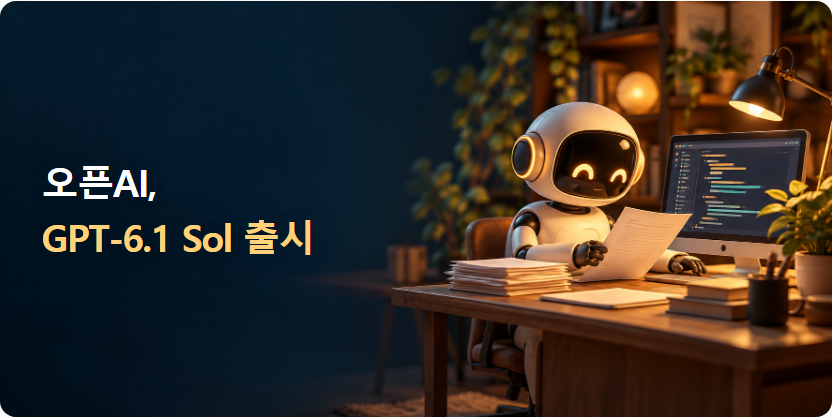
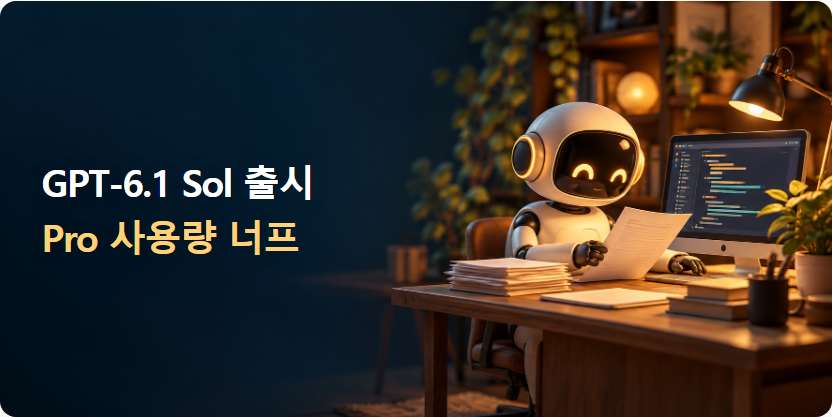
Publish Pro usage nerf article and revise Sol coverage

Changed region(s): [[0.0312, 0.53, 0.375, 0.6235], [0.0312, 0.3741, 0.375, 0.4988]]

diff --git a/posts/openai-gpt-61-sol-launch.html b/posts/openai-gpt-61-sol-launch.html
@@ -1,1 +1,1 @@
-<!doctype html><html lang="ko"><head><meta charset="utf-8"><meta name="viewport" content="width=device-width,initial-scale=1"><link rel="icon" href="data:,"><title>오픈AI, GPT-6.1 Sol 출시…문서·코딩 실력 높이고 가격은 유지</title><meta name="description" content="오픈AI가 GPT-6.1 Sol을 내놨습니다. 문서와 코딩 작업을 개선하고, 개발자가 쓰는 표준 API 요금은 기존 Sol과 같게 유지했습니다."><link rel="canonical" href="https://korea333333-web.github.io/posts/openai-gpt-61-sol-launch.html"><meta property="og:type" content="article"><meta property="og:title" content="오픈AI, GPT-6.1 Sol 출시…문서·코딩 실력 높이고 가격은 유지"><meta property="og:description" content="오픈AI가 GPT-6.1 Sol을 내놨습니다. 문서와 코딩 작업을 개선하고, 개발자가 쓰는 표준 API 요금은 기존 Sol과 같게 유지했습니다."><meta property="og:image" content="https://korea333333-web.github.io/assets/openai-gpt-61-sol-launch-cover.png"><link rel="stylesheet" href="../assets/sep26-base.css"><link rel="stylesheet" href="../assets/sep03-article.css"><link rel="stylesheet" href="../assets/sep26-articles.css"><link rel="stylesheet" href="../assets/oct01-six.css"></head><body><header class="site-header"><a class="brand" href="../index.html#ai-news"><span class="brand-mark">AI</span><span>AI 인사이트 브리프</span></a><nav class="nav" aria-label="주요 메뉴"><a href="../index.html#ai-news">AI 뉴스</a></nav></header><main class="article-shell"><article class="article article-custom sep26-article six-article"><a class="back-link" href="../index.html#ai-news">← AI 뉴스 목록</a><div class="article-meta">AI 모델 출시 · 2026.10.01 작성</div><h1>오픈AI, GPT-6.1 Sol 출시…문서·코딩 실력 높이고 가격은 유지</h1><p class="lead">오픈AI가 9월 29일 GPT-6.1 Sol을 출시했다. 문서를 읽고 프로그램을 고치는 능력을 높이면서, 개발자가 AI를 연결해 쓰는 표준 요금은 기존 GPT-6 Sol과 같게 유지했다. Work·Codex·API에서 제공한다.</p><figure class="sep26-hero article-hero-media" id="hero-openai-gpt-61-sol-launch" aria-describedby="hero-credit"><img src="../assets/openai-gpt-61-sol-launch.png" width="1774" height="887" alt="서류와 컴퓨터로 일하는 작은 로봇. 오픈AI, GPT-6.1 Sol 출시"><div class="cover-copy" aria-hidden="true"><span class="cover-title">오픈AI,<em>GPT-6.1 Sol 출시</em></span></div></figure><section><h2>비싼 AI에 맡기던 일을 더 낮은 비용으로</h2><p>이번 발표에서 눈에 띄는 것은 성능과 가격을 함께 바꿨다는 점이다. 오픈AI는 코딩 평가 일부에서 Sol이 아스트라에 가까운 결과를 냈다고 설명했다. 아스트라는 오픈AI의 고성능 모델이고, Sol은 비용을 낮춰 여러 작업에 쓰도록 만든 모델이다.</p><p>표준 API의 입력·출력 단가는 아스트라의 5분의 1이다. 여기서 API는 다른 프로그램이 AI에게 일을 시키는 연결 통로다. 예를 들어 쇼핑몰이 고객 문의를 AI에 보내 답변을 받아오는 데 쓴다. 챗GPT 월 구독료와는 별도로 계산한다. <a href="https://openai.com/ko-KR/index/introducing-gpt-6-1-sol/" target="_blank" rel="noopener noreferrer">오픈AI 발표</a></p></section><figure class="sep26-visual compare" id="sol-price"><div class="visual-inner"><h3>표준 API 요금은 이렇게 읽으면 된다</h3><div class="visual-items "><div class="visual-item"><strong>AI에게 보내는 자료</strong><p>100만 토큰당 2달러</p></div><div class="visual-item"><strong>AI가 작성한 답변</strong><p>100만 토큰당 10달러</p></div><div class="visual-item"><strong>아스트라와 비교</strong><p>아스트라 단가의 5분의 1</p></div></div></div><figcaption><a href="https://openai.com/ko-KR/index/introducing-gpt-6-1-sol/" target="_blank" rel="noopener noreferrer">자료 원문</a> · 출시 당시 표준 API 입력·출력 단가. 토큰은 AI가 글을 나눠 처리하는 조각이며 글자 수와 다르다. 편집부 재구성.</figcaption></figure><section><h2>토큰은 글자 수와 다르다</h2><p>토큰은 AI가 문장을 읽고 쓸 때 나누는 작은 조각이다. 한 단어가 여러 조각으로 나뉘기도 한다. 그래서 “백만 토큰”을 “백만 글자”로 바꿔 계산하면 요금이 맞지 않는다. 한국어와 영어도 같은 분량에서 토큰 수가 달라질 수 있다.</p><p>입력 요금은 내가 보낸 질문과 자료를 처리하는 비용이다. 출력 요금은 AI가 답변을 만드는 비용이다. 예를 들어 입력과 출력이 각각 백만 토큰이라면 표준 단가로 입력 2달러와 출력 10달러를 더해 12달러다. 별도로 사용하는 도구 비용 등은 이 계산에서 뺐다.</p><p>작은 회사가 하루에 문의 수백 건을 정리한다고 생각해 보자. 한 번의 답변 가격이 작아도 매일 반복하면 비용이 쌓인다. 비슷한 수준의 일을 더 저렴한 모델이 처리하면, 어려운 문의에만 고성능 모델을 쓰는 식으로 비용을 나눌 수 있다. 이는 활용 예시이며 실제 고객사의 절감 실적은 아니다.</p><p>가격이 낮아졌다고 모든 작업의 총비용이 정확히 5분의 1로 줄지는 않는다. 모델마다 답변 길이와 다시 시도하는 횟수가 다를 수 있기 때문이다. 실제 비교에서는 같은 자료와 같은 요청을 주고, 쓴 금액과 최종 결과를 함께 봐야 한다.</p></section><section><h2>코딩 점수는 무엇을 시험한 결과인가</h2><p>오픈AI가 소개한 평가 가운데 DeepSWE가 있다. 이 시험은 AI에게 실제 프로그램의 기능을 고치거나 추가하는 일을 맡긴다. <a href="https://deepswe.datacurve.ai/" target="_blank" rel="noopener noreferrer">평가 제작자 설명</a>에 따르면 여러 프로그래밍 언어와 프로젝트에서 과제를 만들고, 고친 프로그램이 요구한 대로 작동하는지 검사한다.</p><p>예를 들어 “사용자가 파일을 내려받다가 취소하면 불필요한 작업도 멈추게 고쳐 달라”는 요청을 생각하면 이해하기 쉽다. AI가 문법에 맞는 코드 한 줄을 쓰는 능력보다, 기존 프로그램을 읽고 관련 부분을 찾아 고치는 능력이 중요하다. 이 예시는 평가의 성격을 설명하기 위한 것이다.</p><p>오픈AI는 일부 코딩 시험에서 아스트라에 가까워졌다고 설명하면서도, 전체적으로 가장 강한 모델은 아스트라라고 밝혔다. 따라서 이번 소식은 “Sol이 아스트라를 전부 이겼다”보다 “비용이 낮은 선택지의 실력이 올라갔다”로 읽는 편이 정확하다.</p><p>평가표를 볼 때는 모델 이름 옆의 설정도 중요하다. AI가 답을 내기 전에 더 오래 검토하도록 설정하면 결과와 비용이 함께 달라질 수 있다. 가장 높은 점수 하나만 가져와 가장 싼 요금과 붙이면 실제 사용 조건을 놓치게 된다.</p></section><section><h2>문서 업무에서는 같은 자료로 비교해 보면 된다</h2><p>이번 모델은 복잡한 PDF를 읽는 일도 개선 대상으로 내세웠다. PDF는 표와 그림, 여러 단의 글이 섞인 문서가 많다. 내용을 이해하려면 문장을 읽는 것뿐 아니라 어느 숫자가 어느 항목에 붙어 있는지도 구분해야 한다.</p><p>가령 여러 업체의 제안서를 비교한다면 “제일 좋은 업체를 골라줘”보다 “가격·납기·추가 비용을 표로 정리하고 근거 페이지를 붙여줘”라고 요청할 수 있다. 사람이 원문에서 숫자를 다시 찾을 수 있어 결과를 확인하기 쉽다. 여기서 든 요청은 편집부가 만든 사용 예시다.</p><p>이미 Sol을 쓰고 있다면 처음부터 모든 일을 바꿀 필요는 없다. 이전 모델이 자주 틀렸던 문서나 코드 작업 몇 개를 골라 같은 조건으로 비교하면 된다. 정답 여부, 수정한 횟수, 걸린 시간, 비용을 나란히 적으면 내 업무에서 좋아졌는지 판단할 수 있다.</p></section><figure class="sep26-visual compare" id="sol-where"><div class="visual-inner"><h3>출시 때 안내한 이용 장소</h3><div class="visual-items "><div class="visual-item"><strong>Work·Codex</strong><p>지원 요금제에서 업무와 코딩에 사용</p></div><div class="visual-item"><strong>개발자 API</strong><p>gpt-6.1-sol 모델로 연결</p></div><div class="visual-item"><strong>일반 Chat</strong><p>출시 당시 이용 불가</p></div></div></div><figcaption><a href="https://openai.com/ko-KR/index/introducing-gpt-6-1-sol/" target="_blank" rel="noopener noreferrer">자료 원문</a> · Work·Codex는 Plus·Pro·Business·Enterprise·Edu 대상으로 발표됐다. 편집부 재구성.</figcaption></figure><section><h2>어디에서 쓸 수 있나</h2><p>출시 안내는 ChatGPT Work와 Codex의 Plus·Pro·Business·Enterprise·Edu, 그리고 API를 대상으로 한다. Work는 문서 같은 결과물을 만드는 업무 기능이고, Codex는 프로그램을 만들고 고치는 도구다. 일반 Chat에서는 출시 당시 사용할 수 없다고 안내했다. <a href="https://openai.com/ko-KR/index/introducing-gpt-6-1-sol/" target="_blank" rel="noopener noreferrer">모델 발표문</a></p><p>개발자는 모델 이름을 gpt-6.1-sol로 지정해 연결한다. 기존 프로그램의 모델 이름을 바꿀 때는 결과를 받아 처리하는 부분도 시험해야 한다. 답변 형식이나 길이가 달라지면, 잘 돌아가던 후속 작업이 예상과 다르게 처리될 수 있기 때문이다.</p><p>일반 이용자는 API 단가보다 자신이 쓰는 요금제의 제공 여부와 이용량이 먼저다. 업무용 계정은 회사 관리자가 허용한 설정도 영향을 준다. 가격표의 “백만 토큰당” 숫자를 월 구독료와 섞지 않으면 발표를 훨씬 쉽게 읽을 수 있다.</p><p>GPT-6.1 Sol의 핵심은 더 비싼 모델에만 맡기던 문서·코딩 작업을 낮은 단가에서도 시도할 수 있게 했다는 것이다. 내 자료로 같은 일을 맡겼을 때 수정할 부분이 줄어드는지가 실제 가치를 가른다.</p></section><section class="sep26-sources"><h2>출처와 더 읽을 자료</h2><ul><li><a href="https://openai.com/ko-KR/index/introducing-gpt-6-1-sol/" target="_blank" rel="noopener noreferrer">오픈AI — GPT-6.1 Sol 발표와 제공 범위</a></li><li><a href="https://deepswe.datacurve.ai/" target="_blank" rel="noopener noreferrer">Datacurve — DeepSWE 평가 방식</a></li><li><a href="https://openai.com/business/pricing/" target="_blank" rel="noopener noreferrer">오픈AI — 기업용 서비스와 요금 안내</a></li><li><a href="https://openai.com/index/devday-2026-recap/" target="_blank" rel="noopener noreferrer">오픈AI — DevDay 2026 발표 모음</a></li></ul><p id="hero-credit">대표 그림은 AI로 만든 설명용 이미지다. 실제 제품 화면이나 사건 현장을 촬영한 사진이 아니다. 한국어 제목은 그림과 분리해 배치했고, 본문 도표는 자료를 바탕으로 직접 구성했다.</p></section><nav class="sep26-related" aria-label="기사 이동"><a href="openai-dots-ai-assistant.html">함께 읽기: 오픈AI, 대화가 끝나도 일하는 AI 비서 ‘도트’ 공개 →</a></nav></article></main></body></html>
+<!doctype html><html lang="ko"><head><meta charset="utf-8"><meta name="viewport" content="width=device-width,initial-scale=1"><link rel="icon" href="data:,"><title>GPT-6.1 Sol 출시…챗GPT Pro 사용량 너프, 월 500달러 요금제 추가</title><meta name="description" content="오픈AI가 Sol 6.1의 문서·코딩 성능을 높였다고 밝혔다. 하지만 월 200달러 Pro의 기본 사용량은 줄었고, 더 많이 쓰는 상위 요금제는 월 500달러다."><link rel="canonical" href="https://korea333333-web.github.io/posts/openai-gpt-61-sol-launch.html"><meta property="og:type" content="article"><meta property="og:title" content="GPT-6.1 Sol 출시…챗GPT Pro 사용량 너프, 월 500달러 요금제 추가"><meta property="og:description" content="오픈AI가 Sol 6.1의 문서·코딩 성능을 높였다고 밝혔다. 하지만 월 200달러 Pro의 기본 사용량은 줄었고, 더 많이 쓰는 상위 요금제는 월 500달러다."><meta property="og:image" content="https://korea333333-web.github.io/assets/openai-gpt-61-sol-launch-cover.png"><link rel="stylesheet" href="../assets/sep26-base.css"><link rel="stylesheet" href="../assets/sep03-article.css"><link rel="stylesheet" href="../assets/sep26-articles.css"><link rel="stylesheet" href="../assets/oct01-six.css"></head><body><header class="site-header"><a class="brand" href="../index.html#ai-news"><span class="brand-mark">AI</span><span>AI 인사이트 브리프</span></a><nav class="nav" aria-label="주요 메뉴"><a href="../index.html#ai-news">AI 뉴스</a></nav></header><main class="article-shell"><article class="article article-custom sep26-article six-article"><a class="back-link" href="../index.html#ai-news">← AI 뉴스 목록</a><div class="article-meta">AI 모델 · 요금제 변경 · 2026.10.01 작성</div><h1>GPT-6.1 Sol 출시…챗GPT Pro 사용량 너프, 월 500달러 요금제 추가</h1><p class="lead">오픈AI가 9월 29일 GPT-6.1 Sol을 출시했다. 동시에 챗GPT Pro는 월 200달러를 그대로 받으면서 기본 사용량을 줄이고, 월 500달러 상위 요금제를 추가했다. 새 모델의 성능 향상과 별개로, 같은 돈으로 쓸 수 있는 양이 줄어드는 사용량 너프다.</p><figure class="sep26-hero article-hero-media" id="hero-openai-gpt-61-sol-launch" aria-describedby="hero-credit"><img src="../assets/openai-gpt-61-sol-launch.png" width="1774" height="887" alt="서류와 컴퓨터로 일하는 작은 로봇. GPT-6.1 Sol 출시, Pro 사용량 너프"><div class="cover-copy" aria-hidden="true"><span class="cover-title">GPT-6.1 Sol 출시<em>Pro 사용량 너프</em></span></div></figure><section><h2>새 모델은 나왔지만 Pro의 기본 사용량은 줄었다</h2><p>여기서 너프는 기존에 받던 혜택을 줄인다는 뜻이다. <a href="https://help.openai.com/en/articles/9793128-about-chatgpt-pro-tiers" target="_blank" rel="noopener noreferrer">공식 안내</a>에 따르면 새 Pro 200 가입자는 이전보다 적은 기본 사용량을 받는다. 유예 조건을 충족하고 구독을 유지하는 기존 가입자는 10월 29일까지 이전 한도를 쓰고, 그 뒤에는 줄어든 한도가 적용된다.</p><p>기존 한도를 거의 다 쓰며 글을 쓰고 프로그램을 고치던 사람이라면, 앞으로는 일을 끝내기 전에 한도가 소진될 수 있다. 월 200달러를 그대로 내도 이전만큼 작업하지 못할 수 있다는 점이 핵심이다.</p><p>새 Pro 500은 세 Pro 요금제 중 기본 사용량이 가장 많고, 아스트라의 초고속 답변 모드 Ultrafast도 제공한다. 다만 기본 사용량이 얼마나 줄었는지, Pro 500에서 정확히 몇 배 더 쓸 수 있는지는 공개 안내에 없다. <a href="https://help.openai.com/en/articles/6825453-chatgpt-release-notes" target="_blank" rel="noopener noreferrer">9월 29일 변경 기록</a></p></section><figure class="sep26-visual compare" id="sol-price"><div class="visual-inner"><h3>Pro 요금제는 이렇게 달라졌다</h3><div class="visual-items "><div class="visual-item"><strong>Pro 100</strong><p>월 100달러 · Pro 200보다 적은 사용량</p></div><div class="visual-item"><strong>Pro 200</strong><p>월 200달러 · 이전보다 줄어든 사용량</p></div><div class="visual-item"><strong>Pro 500</strong><p>월 500달러 · 가장 많은 사용량과 아스트라 초고속 모드</p></div></div></div><figcaption><a href="https://help.openai.com/en/articles/9793128-about-chatgpt-pro-tiers" target="_blank" rel="noopener noreferrer">자료 원문</a> · 10월 1일 공식 안내 기준. 조건을 충족한 Pro 200 기존 가입자는 10월 29일까지 이전 한도를 유지한다. 편집부 재구성.</figcaption></figure><section><h2>개발자용 API 가격과 월 구독료는 따로 계산한다</h2><p>Sol 6.1의 표준 API 단가는 기존 Sol과 같다. 입력은 100만 토큰당 2달러, 출력은 10달러이며, 아스트라 표준 단가의 5분의 1이다. 여기서 API는 다른 프로그램이 AI에게 일을 시키는 연결 통로다. 쇼핑몰이 고객 문의를 AI에 보내 답변을 받아오는 데 쓰는 식이다. <a href="https://openai.com/ko-KR/index/introducing-gpt-6-1-sol/" target="_blank" rel="noopener noreferrer">오픈AI 발표</a></p><p>이 단가는 개발자가 프로그램에 AI를 연결해 쓸 때의 요금이다. 챗GPT Pro 월 구독료와 기본 사용량은 별도 조건으로 정한다. 개발자용 API 단가는 유지했지만, Pro 200에 포함된 기본 사용량은 줄었다.</p><p>토큰은 AI가 문장을 읽고 쓸 때 나누는 작은 조각이다. 한 단어가 여러 조각으로 나뉘기도 한다. 그래서 “백만 토큰”을 “백만 글자”로 바꿔 계산하면 요금이 맞지 않는다. 한국어와 영어도 같은 분량에서 토큰 수가 달라질 수 있다.</p><p>입력 요금은 내가 보낸 질문과 자료를 처리하는 비용이다. 출력 요금은 AI가 답변을 만드는 비용이다. 예를 들어 입력과 출력이 각각 백만 토큰이라면 표준 단가로 입력 2달러와 출력 10달러를 더해 12달러다. 별도로 사용하는 도구 비용 등은 이 계산에서 뺐다.</p><p>작은 회사가 하루에 문의 수백 건을 정리한다고 생각해 보자. 한 번의 답변 가격이 작아도 매일 반복하면 비용이 쌓인다. 비슷한 수준의 일을 더 저렴한 모델이 처리하면, 어려운 문의에만 고성능 모델을 쓰는 식으로 비용을 나눌 수 있다. 이는 활용 예시이며 실제 고객사의 절감 실적은 아니다.</p><p>작업의 총비용은 답변 길이와 다시 시도하는 횟수에 따라 달라진다. 같은 자료와 같은 요청을 주고 쓴 금액과 최종 결과를 비교해야 한다. API 단가가 5분의 1이라고 해서 Pro 구독에서 일을 다섯 배 더 할 수 있다고 계산할 수는 없다.</p></section><section><h2>코딩 점수는 무엇을 시험한 결과인가</h2><p>오픈AI가 소개한 평가 가운데 DeepSWE가 있다. 이 시험은 AI에게 실제 프로그램의 기능을 고치거나 추가하는 일을 맡긴다. <a href="https://deepswe.datacurve.ai/" target="_blank" rel="noopener noreferrer">평가 제작자 설명</a>에 따르면 여러 프로그래밍 언어와 프로젝트에서 과제를 만들고, 고친 프로그램이 요구한 대로 작동하는지 검사한다.</p><p>예를 들어 “사용자가 파일을 내려받다가 취소하면 불필요한 작업도 멈추게 고쳐 달라”는 요청을 생각하면 이해하기 쉽다. AI가 문법에 맞는 코드 한 줄을 쓰는 능력보다, 기존 프로그램을 읽고 관련 부분을 찾아 고치는 능력이 중요하다. 이 예시는 평가의 성격을 설명하기 위한 것이다.</p><p>오픈AI는 일부 코딩 시험에서 Sol이 아스트라에 가까워졌다고 설명했다. 가장 어려운 과학 연구 등의 작업에서는 아스트라가 더 강하다고 밝혔다. Sol은 비용을 낮추면서 문서·코딩 업무에 쓸 수 있는 선택지다.</p><p>평가표를 볼 때는 모델 이름 옆의 설정도 중요하다. AI가 답을 내기 전에 더 오래 검토하도록 설정하면 결과와 비용이 함께 달라질 수 있다. 가장 높은 점수 하나만 가져와 가장 싼 요금과 붙이면 실제 사용 조건을 놓치게 된다.</p></section><section><h2>문서 업무에서는 같은 자료로 비교해 보면 된다</h2><p>이번 모델은 복잡한 PDF를 읽는 일도 개선 대상으로 내세웠다. PDF는 표와 그림, 여러 단의 글이 섞인 문서가 많다. 내용을 이해하려면 문장을 읽는 것뿐 아니라 어느 숫자가 어느 항목에 붙어 있는지도 구분해야 한다.</p><p>가령 여러 업체의 제안서를 비교한다면 “제일 좋은 업체를 골라줘”보다 “가격·납기·추가 비용을 표로 정리하고 근거 페이지를 붙여줘”라고 요청할 수 있다. 사람이 원문에서 숫자를 다시 찾을 수 있어 결과를 확인하기 쉽다. 여기서 든 요청은 편집부가 만든 사용 예시다.</p><p>이미 Sol을 쓰고 있다면 처음부터 모든 일을 바꿀 필요는 없다. 이전 모델이 자주 틀렸던 문서나 코드 작업 몇 개를 골라 같은 조건으로 비교하면 된다. 정답 여부, 수정한 횟수, 걸린 시간, 비용을 나란히 적으면 내 업무에서 좋아졌는지 판단할 수 있다.</p></section><figure class="sep26-visual compare" id="sol-where"><div class="visual-inner"><h3>출시 때 안내한 이용 장소</h3><div class="visual-items "><div class="visual-item"><strong>Work·Codex</strong><p>지원 요금제에서 업무와 코딩에 사용</p></div><div class="visual-item"><strong>개발자 API</strong><p>gpt-6.1-sol 모델로 연결</p></div><div class="visual-item"><strong>일반 Chat</strong><p>출시 당시 이용 불가</p></div></div></div><figcaption><a href="https://openai.com/ko-KR/index/introducing-gpt-6-1-sol/" target="_blank" rel="noopener noreferrer">자료 원문</a> · Work·Codex는 Plus·Pro·Business·Enterprise·Edu 대상으로 발표됐다. 편집부 재구성.</figcaption></figure><section><h2>어디에서 쓸 수 있나</h2><p>출시 안내는 ChatGPT Work와 Codex의 Plus·Pro·Business·Enterprise·Edu, 그리고 API를 대상으로 한다. Work는 문서 같은 결과물을 만드는 업무 기능이고, Codex는 프로그램을 만들고 고치는 도구다. 일반 Chat에서는 출시 당시 사용할 수 없다고 안내했다. <a href="https://openai.com/ko-KR/index/introducing-gpt-6-1-sol/" target="_blank" rel="noopener noreferrer">모델 발표문</a></p><p>개발자는 모델 이름을 gpt-6.1-sol로 지정해 연결한다. 기존 프로그램의 모델 이름을 바꿀 때는 결과를 받아 처리하는 부분도 시험해야 한다. 답변 형식이나 길이가 달라지면, 잘 돌아가던 후속 작업이 예상과 다르게 처리될 수 있기 때문이다.</p><p>일반 이용자는 API 단가보다 자신이 쓰는 요금제의 제공 여부와 이용량이 먼저다. 업무용 계정은 회사 관리자가 허용한 설정도 영향을 준다. 가격표의 “백만 토큰당” 숫자를 월 구독료와 섞지 않으면 발표를 훨씬 쉽게 읽을 수 있다.</p><p>Sol 6.1의 문서·코딩 성능이 좋아졌다는 발표는 반가운 소식이다. 하지만 Pro 200의 기본 사용량 너프는 이용자에게 불리한 변경이다. 같은 돈으로 하던 일을 계속할 수 있는지, 새 한도가 충분한지도 함께 따져야 한다.</p></section><section class="sep26-sources"><h2>출처와 더 읽을 자료</h2><ul><li><a href="https://openai.com/ko-KR/index/introducing-gpt-6-1-sol/" target="_blank" rel="noopener noreferrer">오픈AI — GPT-6.1 Sol 발표와 제공 범위</a></li><li><a href="https://help.openai.com/en/articles/9793128-about-chatgpt-pro-tiers" target="_blank" rel="noopener noreferrer">오픈AI 도움말 — Pro 사용량 축소와 새 요금제</a></li><li><a href="https://help.openai.com/en/articles/6825453-chatgpt-release-notes" target="_blank" rel="noopener noreferrer">오픈AI — 9월 29일 모델·요금제 변경 기록</a></li><li><a href="https://deepswe.datacurve.ai/" target="_blank" rel="noopener noreferrer">Datacurve — DeepSWE 평가 방식</a></li><li><a href="https://openai.com/index/devday-2026-recap/" target="_blank" rel="noopener noreferrer">오픈AI — DevDay 2026 발표 모음</a></li></ul><p id="hero-credit">대표 그림은 AI로 만든 설명용 이미지다. 실제 제품 화면이나 사건 현장을 촬영한 사진이 아니다. 한국어 제목은 그림과 분리해 배치했고, 본문 도표는 자료를 바탕으로 직접 구성했다.</p></section><nav class="sep26-related" aria-label="기사 이동"><a href="openai-dots-ai-assistant.html">함께 읽기: 오픈AI, 대화가 끝나도 일하는 AI 비서 ‘도트’ 공개 →</a></nav></article></main></body></html>

diff --git a/posts/chatgpt-space-shared-pages.html b/posts/chatgpt-space-shared-pages.html
@@ -1,1 +1,1 @@
-<!doctype html><html lang="ko"><head><meta charset="utf-8"><meta name="viewport" content="width=device-width,initial-scale=1"><link rel="icon" href="data:,"><title>챗GPT 스페이스 공개…사람과 AI가 같은 문서를 함께 고친다</title><meta name="description" content="채팅 답변을 복사해 옮기는 대신 같은 문서에서 팀원과 AI가 함께 작업합니다. 출시 때 모바일은 열람·공유를 지원합니다."><link rel="canonical" href="https://korea333333-web.github.io/posts/chatgpt-space-shared-pages.html"><meta property="og:type" content="article"><meta property="og:title" content="챗GPT 스페이스 공개…사람과 AI가 같은 문서를 함께 고친다"><meta property="og:description" content="채팅 답변을 복사해 옮기는 대신 같은 문서에서 팀원과 AI가 함께 작업합니다. 출시 때 모바일은 열람·공유를 지원합니다."><meta property="og:image" content="https://korea333333-web.github.io/assets/chatgpt-space-shared-pages-cover.png"><link rel="stylesheet" href="../assets/sep26-base.css"><link rel="stylesheet" href="../assets/sep03-article.css"><link rel="stylesheet" href="../assets/sep26-articles.css"><link rel="stylesheet" href="../assets/oct01-six.css"></head><body><header class="site-header"><a class="brand" href="../index.html#ai-news"><span class="brand-mark">AI</span><span>AI 인사이트 브리프</span></a><nav class="nav" aria-label="주요 메뉴"><a href="../index.html#ai-news">AI 뉴스</a></nav></header><main class="article-shell"><article class="article article-custom sep26-article six-article"><a class="back-link" href="../index.html#ai-news">← AI 뉴스 목록</a><div class="article-meta">AI와 문서 협업 · 2026.10.01 작성</div><h1>챗GPT 스페이스 공개…사람과 AI가 같은 문서를 함께 고친다</h1><p class="lead">오픈AI가 사람과 AI가 같은 문서를 함께 편집하는 ‘챗GPT 스페이스’를 공개했다. 글·그림·표를 한 페이지에 모으고, 팀원이 내용을 고치거나 AI에게 수정을 요청할 수 있다. Pro·Business·Enterprise 대상이며 웹과 데스크톱에서 편집한다.</p><figure class="sep26-hero article-hero-media" id="hero-chatgpt-space-shared-pages" aria-describedby="hero-credit"><img src="../assets/chatgpt-space-shared-pages.png" width="1774" height="887" alt="한 문서를 펼쳐 놓고 함께 살펴보는 두 사람과 로봇. 챗GPT 스페이스, AI와 문서 함께 편집"><div class="cover-copy" aria-hidden="true"><span class="cover-title">챗GPT 스페이스,<em>AI와 문서 함께 편집</em></span></div></figure><section><h2>채팅 답변을 문서에 복사하는 일을 줄인다</h2><p>스페이스는 챗GPT에서 만든 페이지와 파일을 모아 두는 공간이다. 기존 라이브러리를 대신한다. 여기서 페이지는 사람이 직접 고치거나 AI에게 수정을 요청할 수 있는 문서다. 문서 안에 글뿐 아니라 이미지와 도표도 넣을 수 있다. <a href="https://chatgpt.com/features/space/" target="_blank" rel="noopener noreferrer">공식 소개</a></p><p>예를 들어 세 사람이 행사 기획서를 만든다고 해보자. 한 사람은 장소를 조사하고, 다른 사람은 일정을 정하고, 또 다른 사람은 홍보 문구를 쓴다. 각자 채팅창에서 결과를 만든 뒤 한 사람이 모으는 대신, 같은 페이지에 내용을 붙이고 함께 고치는 방식이다.</p><p>공동 편집 권한을 가진 사람들은 같은 페이지를 동시에 수정할 수 있다. 각자는 자신의 챗GPT에 질문하거나 수정을 요청한다. 결과가 공유 문서에 반영되므로 팀원에게 최신 답변을 다시 복사해 보내는 일이 줄어든다.</p></section><figure class="sep26-visual flow" id="space-flow"><div class="visual-inner"><h3>함께 만드는 문서의 흐름</h3><div class="visual-items "><div class="visual-item"><strong>초안 만들기</strong><p>챗GPT와 페이지 작성</p></div><div class="visual-item"><strong>동료 초대하기</strong><p>보기 또는 편집 권한 선택</p></div><div class="visual-item"><strong>함께 고치기</strong><p>사람과 AI가 같은 페이지 수정</p></div></div></div><figcaption><a href="https://chatgpt.com/features/space/" target="_blank" rel="noopener noreferrer">자료 원문</a> · 스페이스의 페이지 공동 편집 흐름을 정리했다. 편집부 재구성.</figcaption></figure><section><h2>AI가 고칠 부분을 문서 안에서 짚는다</h2><p>공식 소개는 문서에 댓글을 남기거나 AI를 불러 내용을 바꾸는 방식을 보여 준다. 예를 들어 일정표 옆에서 준비 기간을 다시 계산해 달라고 요청하거나, 긴 설명을 독자에 맞게 줄이는 작업을 생각할 수 있다.</p><p>행사 기획서라면 “행사장은 그대로 두고, 준비 일정을 일주일 앞당겨줘. 대관비는 바꾸지 마”처럼 범위를 정할 수 있다. 전체 문서를 새로 쓰게 하는 것보다 유지할 부분과 바꿀 부분을 함께 알려 주는 것이다. 이는 사용 방식을 설명하기 위한 가상 예시다.</p><p>문서 안에서 함께 작업하면 누락도 찾기 쉽다. 홍보 담당자는 참가 신청 링크가 빠졌다고 댓글을 달고, 운영 담당자는 준비물 목록을 고칠 수 있다. AI가 문장을 정리하는 동안 사람이 실제 날짜와 예산을 확인하는 식으로 역할을 나눌 수 있다.</p><p>이때 문서에 남길 내용과 개인적으로 질문할 내용을 구분하면 좋다. 팀에 공유할 결정은 페이지에 정리하고, 아직 검토 중인 개인 메모는 따로 두는 방식이다. 여러 사람이 같은 문서를 보는 만큼 초안과 확정 내용을 표시해 두면 혼동을 줄일 수 있다.</p></section><section><h2>외부 자료도 연결하지만, 볼 수 있는 범위가 있다</h2><p>챗GPT는 연결한 도구의 자료를 업무에 사용할 수 있다. <a href="https://chatgpt.com/features/plugins/" target="_blank" rel="noopener noreferrer">플러그인 안내</a>는 구글 드라이브나 업무용 메신저 등에서 권한이 있는 내용을 가져오는 방식을 설명한다. 플러그인은 챗GPT가 다른 서비스와 연결되도록 더하는 기능이다. 회사 계정에서는 관리자가 허용한 도구를 사용한다.</p><p>예를 들어 팀의 준비물 목록이 드라이브에 있다면, 허용된 연결을 통해 그 내용을 참고하도록 요청할 수 있다. 페이지에는 준비물 요약을 넣고 원본 링크를 남기는 식이다. 원본 파일을 바꿀지, 페이지의 요약만 바꿀지는 요청에서 나눠 주는 편이 좋다.</p><p>원본 파일 링크만 붙이면 그 파일의 기존 권한이 유지된다. 반면 파일 내용을 복사하거나 요약해 공유 페이지에 적으면, 페이지를 볼 수 있는 사람은 그 내용을 읽을 수 있다. 고객 명단처럼 공개 범위가 좁은 자료를 옮길 때 이 차이가 중요하다.</p><p>오픈AI는 <a href="https://chatgpt.com/work/" target="_blank" rel="noopener noreferrer">Work 소개</a>에서 자료를 모아 문서나 분석 결과로 만드는 작업을 강조한다. 스페이스는 그렇게 만든 결과를 저장하고 동료와 다시 작업하는 장소로 이해할 수 있다. 일을 요청하는 대화와 함께 고치는 결과물이 이어지는 셈이다.</p></section><figure class="sep26-visual compare" id="space-availability"><div class="visual-inner"><h3>출시 때 바로 되는 일과 예정된 일</h3><div class="visual-items "><div class="visual-item"><strong>웹·데스크톱</strong><p>페이지 만들기·편집·공동 작업</p></div><div class="visual-item"><strong>모바일</strong><p>페이지 찾기·읽기·공유</p></div><div class="visual-item"><strong>추후 제공</strong><p>모바일 편집, 공동 슬라이드·스프레드시트</p></div></div></div><figcaption><a href="https://chatgpt.com/features/space/" target="_blank" rel="noopener noreferrer">자료 원문</a> · 공식 소개의 출시 당시 제공 범위. 스프레드시트는 계산과 정리에 쓰는 표 문서다. 편집부 재구성.</figcaption></figure><section><h2>모바일에서도 문서를 고칠 수 있나</h2><p>출시 안내 기준으로 모바일은 페이지를 찾아 읽고 공유하는 기능을 지원한다. 새 페이지를 만들거나 내용을 함께 편집하는 작업은 웹과 데스크톱에서 한다. 모바일 편집과 공동 작업은 추후 제공으로 안내돼 있다.</p><p>여러 사람이 동시에 고치는 슬라이드와 스프레드시트도 추후 제공 대상이다. 스페이스에 발표 자료나 표 파일을 보관하는 기능과, 그 파일을 여러 사람이 동시에 편집하는 기능은 나눠 봐야 한다. 지금 되는 기능부터 써야 이용 화면과 설명이 어긋나지 않는다.</p><p>스프레드시트는 엑셀처럼 칸에 숫자를 넣고 계산하는 문서다. 페이지 본문에 표를 넣는 일과 전용 계산 문서를 함께 편집하는 일은 다르다. 공식 발표에서 “문서·표·발표 자료”가 한꺼번에 보이더라도 실제 출시 시점을 확인할 필요가 있다.</p></section><section><h2>공유 범위와 반복 갱신은 따로 정한다</h2><p>페이지를 공유해도 개인 채팅이나 개인 기억 전체가 동료에게 열리지는 않는다. 다만 내가 쓰거나 AI가 페이지에 옮긴 내용은 그 페이지를 보는 사람에게 보인다. 개인 메모에서 가져온 정보가 들어갔다면 공유 전에 내용을 확인해야 한다.</p><p>개인용 지원 요금제에서는 공유 메뉴에서 이메일로 사람을 초대하고 보기 또는 편집 권한을 정한다. 회사용 계정에서는 조직의 공유 규칙과 관리자 설정도 적용된다. 단순 검토를 부탁하는 사람에게는 보기 권한을 주는 식으로 필요한 범위를 고를 수 있다.</p><p>페이지를 계속 최신 상태로 유지하려면 무엇을 언제 바꿀지 요청해야 한다. 반복 갱신은 확인할 자료와 주기를 정한 자동 작업으로 설정한다. 예를 들어 매주 금요일에 업무 목록을 읽고 완료된 항목을 요약하도록 정하는 식이다. 이 예시는 자동 작업을 설명하기 위한 것이다.</p><p>바뀐 문서는 다시 읽어 봐야 한다. 일정 변경이 있었다면 날짜만 바뀌고 안내 문구는 옛날 내용으로 남을 수 있다. 담당자가 최종 내용을 확인하는 절차를 두면 AI의 정리와 사람의 결정을 함께 활용할 수 있다.</p><p>스페이스의 핵심은 문서를 하나 더 보관하는 데 그치지 않는다. AI가 만든 초안을 사람에게 넘기고 끝내는 대신, 사람과 AI가 같은 문서를 보며 계속 고치는 작업 공간이다.</p></section><section class="sep26-sources"><h2>출처와 더 읽을 자료</h2><ul><li><a href="https://chatgpt.com/features/space/" target="_blank" rel="noopener noreferrer">오픈AI — Space 기능과 이용 조건</a></li><li><a href="https://chatgpt.com/work/" target="_blank" rel="noopener noreferrer">오픈AI — ChatGPT Work 소개</a></li><li><a href="https://chatgpt.com/features/plugins/" target="_blank" rel="noopener noreferrer">오픈AI — 외부 도구 연결과 권한</a></li><li><a href="https://openai.com/index/devday-2026-recap/" target="_blank" rel="noopener noreferrer">오픈AI — DevDay 2026 발표 모음</a></li></ul><p id="hero-credit">대표 그림은 AI로 만든 설명용 이미지다. 실제 제품 화면이나 사건 현장을 촬영한 사진이 아니다. 한국어 제목은 그림과 분리해 배치했고, 본문 도표는 자료를 바탕으로 직접 구성했다.</p></section><nav class="sep26-related" aria-label="기사 이동"><a href="openai-gpt-61-sol-launch.html">함께 읽기: 오픈AI, GPT-6.1 Sol 출시…문서·코딩 실력 높이고 가격은 유지 →</a></nav></article></main></body></html>
+<!doctype html><html lang="ko"><head><meta charset="utf-8"><meta name="viewport" content="width=device-width,initial-scale=1"><link rel="icon" href="data:,"><title>챗GPT 스페이스 공개…사람과 AI가 같은 문서를 함께 고친다</title><meta name="description" content="채팅 답변을 복사해 옮기는 대신 같은 문서에서 팀원과 AI가 함께 작업합니다. 출시 때 모바일은 열람·공유를 지원합니다."><link rel="canonical" href="https://korea333333-web.github.io/posts/chatgpt-space-shared-pages.html"><meta property="og:type" content="article"><meta property="og:title" content="챗GPT 스페이스 공개…사람과 AI가 같은 문서를 함께 고친다"><meta property="og:description" content="채팅 답변을 복사해 옮기는 대신 같은 문서에서 팀원과 AI가 함께 작업합니다. 출시 때 모바일은 열람·공유를 지원합니다."><meta property="og:image" content="https://korea333333-web.github.io/assets/chatgpt-space-shared-pages-cover.png"><link rel="stylesheet" href="../assets/sep26-base.css"><link rel="stylesheet" href="../assets/sep03-article.css"><link rel="stylesheet" href="../assets/sep26-articles.css"><link rel="stylesheet" href="../assets/oct01-six.css"></head><body><header class="site-header"><a class="brand" href="../index.html#ai-news"><span class="brand-mark">AI</span><span>AI 인사이트 브리프</span></a><nav class="nav" aria-label="주요 메뉴"><a href="../index.html#ai-news">AI 뉴스</a></nav></header><main class="article-shell"><article class="article article-custom sep26-article six-article"><a class="back-link" href="../index.html#ai-news">← AI 뉴스 목록</a><div class="article-meta">AI와 문서 협업 · 2026.10.01 작성</div><h1>챗GPT 스페이스 공개…사람과 AI가 같은 문서를 함께 고친다</h1><p class="lead">오픈AI가 사람과 AI가 같은 문서를 함께 편집하는 ‘챗GPT 스페이스’를 공개했다. 글·그림·표를 한 페이지에 모으고, 팀원이 내용을 고치거나 AI에게 수정을 요청할 수 있다. Pro·Business·Enterprise 대상이며 웹과 데스크톱에서 편집한다.</p><figure class="sep26-hero article-hero-media" id="hero-chatgpt-space-shared-pages" aria-describedby="hero-credit"><img src="../assets/chatgpt-space-shared-pages.png" width="1774" height="887" alt="한 문서를 펼쳐 놓고 함께 살펴보는 두 사람과 로봇. 챗GPT 스페이스, AI와 문서 함께 편집"><div class="cover-copy" aria-hidden="true"><span class="cover-title">챗GPT 스페이스,<em>AI와 문서 함께 편집</em></span></div></figure><section><h2>채팅 답변을 문서에 복사하는 일을 줄인다</h2><p>스페이스는 챗GPT에서 만든 페이지와 파일을 모아 두는 공간이다. 기존 라이브러리를 대신한다. 여기서 페이지는 사람이 직접 고치거나 AI에게 수정을 요청할 수 있는 문서다. 문서 안에 글뿐 아니라 이미지와 도표도 넣을 수 있다. <a href="https://chatgpt.com/features/space/" target="_blank" rel="noopener noreferrer">공식 소개</a></p><p>예를 들어 세 사람이 행사 기획서를 만든다고 해보자. 한 사람은 장소를 조사하고, 다른 사람은 일정을 정하고, 또 다른 사람은 홍보 문구를 쓴다. 각자 채팅창에서 결과를 만든 뒤 한 사람이 모으는 대신, 같은 페이지에 내용을 붙이고 함께 고치는 방식이다.</p><p>공동 편집 권한을 가진 사람들은 같은 페이지를 동시에 수정할 수 있다. 각자는 자신의 챗GPT에 질문하거나 수정을 요청한다. 결과가 공유 문서에 반영되므로 팀원에게 최신 답변을 다시 복사해 보내는 일이 줄어든다.</p></section><figure class="sep26-visual flow" id="space-flow"><div class="visual-inner"><h3>함께 만드는 문서의 흐름</h3><div class="visual-items "><div class="visual-item"><strong>초안 만들기</strong><p>챗GPT와 페이지 작성</p></div><div class="visual-item"><strong>동료 초대하기</strong><p>보기 또는 편집 권한 선택</p></div><div class="visual-item"><strong>함께 고치기</strong><p>사람과 AI가 같은 페이지 수정</p></div></div></div><figcaption><a href="https://chatgpt.com/features/space/" target="_blank" rel="noopener noreferrer">자료 원문</a> · 스페이스의 페이지 공동 편집 흐름을 정리했다. 편집부 재구성.</figcaption></figure><section><h2>AI가 고칠 부분을 문서 안에서 짚는다</h2><p>공식 소개는 문서에 댓글을 남기거나 AI를 불러 내용을 바꾸는 방식을 보여 준다. 예를 들어 일정표 옆에서 준비 기간을 다시 계산해 달라고 요청하거나, 긴 설명을 독자에 맞게 줄이는 작업을 생각할 수 있다.</p><p>행사 기획서라면 “행사장은 그대로 두고, 준비 일정을 일주일 앞당겨줘. 대관비는 바꾸지 마”처럼 범위를 정할 수 있다. 전체 문서를 새로 쓰게 하는 것보다 유지할 부분과 바꿀 부분을 함께 알려 주는 것이다. 이는 사용 방식을 설명하기 위한 가상 예시다.</p><p>문서 안에서 함께 작업하면 누락도 찾기 쉽다. 홍보 담당자는 참가 신청 링크가 빠졌다고 댓글을 달고, 운영 담당자는 준비물 목록을 고칠 수 있다. AI가 문장을 정리하는 동안 사람이 실제 날짜와 예산을 확인하는 식으로 역할을 나눌 수 있다.</p><p>이때 문서에 남길 내용과 개인적으로 질문할 내용을 구분하면 좋다. 팀에 공유할 결정은 페이지에 정리하고, 아직 검토 중인 개인 메모는 따로 두는 방식이다. 여러 사람이 같은 문서를 보는 만큼 초안과 확정 내용을 표시해 두면 혼동을 줄일 수 있다.</p></section><section><h2>외부 자료도 연결하지만, 볼 수 있는 범위가 있다</h2><p>챗GPT는 연결한 도구의 자료를 업무에 사용할 수 있다. <a href="https://chatgpt.com/features/plugins/" target="_blank" rel="noopener noreferrer">플러그인 안내</a>는 구글 드라이브나 업무용 메신저 등에서 권한이 있는 내용을 가져오는 방식을 설명한다. 플러그인은 챗GPT가 다른 서비스와 연결되도록 더하는 기능이다. 회사 계정에서는 관리자가 허용한 도구를 사용한다.</p><p>예를 들어 팀의 준비물 목록이 드라이브에 있다면, 허용된 연결을 통해 그 내용을 참고하도록 요청할 수 있다. 페이지에는 준비물 요약을 넣고 원본 링크를 남기는 식이다. 원본 파일을 바꿀지, 페이지의 요약만 바꿀지는 요청에서 나눠 주는 편이 좋다.</p><p>원본 파일 링크만 붙이면 그 파일의 기존 권한이 유지된다. 반면 파일 내용을 복사하거나 요약해 공유 페이지에 적으면, 페이지를 볼 수 있는 사람은 그 내용을 읽을 수 있다. 고객 명단처럼 공개 범위가 좁은 자료를 옮길 때 이 차이가 중요하다.</p><p>오픈AI는 <a href="https://chatgpt.com/work/" target="_blank" rel="noopener noreferrer">Work 소개</a>에서 자료를 모아 문서나 분석 결과로 만드는 작업을 강조한다. 스페이스는 그렇게 만든 결과를 저장하고 동료와 다시 작업하는 장소로 이해할 수 있다. 일을 요청하는 대화와 함께 고치는 결과물이 이어지는 셈이다.</p></section><figure class="sep26-visual compare" id="space-availability"><div class="visual-inner"><h3>출시 때 바로 되는 일과 예정된 일</h3><div class="visual-items "><div class="visual-item"><strong>웹·데스크톱</strong><p>페이지 만들기·편집·공동 작업</p></div><div class="visual-item"><strong>모바일</strong><p>페이지 찾기·읽기·공유</p></div><div class="visual-item"><strong>추후 제공</strong><p>모바일 편집, 공동 슬라이드·스프레드시트</p></div></div></div><figcaption><a href="https://chatgpt.com/features/space/" target="_blank" rel="noopener noreferrer">자료 원문</a> · 공식 소개의 출시 당시 제공 범위. 스프레드시트는 계산과 정리에 쓰는 표 문서다. 편집부 재구성.</figcaption></figure><section><h2>모바일에서도 문서를 고칠 수 있나</h2><p>출시 안내 기준으로 모바일은 페이지를 찾아 읽고 공유하는 기능을 지원한다. 새 페이지를 만들거나 내용을 함께 편집하는 작업은 웹과 데스크톱에서 한다. 모바일 편집과 공동 작업은 추후 제공으로 안내돼 있다.</p><p>여러 사람이 동시에 고치는 슬라이드와 스프레드시트도 추후 제공 대상이다. 스페이스에 발표 자료나 표 파일을 보관하는 기능과, 그 파일을 여러 사람이 동시에 편집하는 기능은 나눠 봐야 한다. 지금 되는 기능부터 써야 이용 화면과 설명이 어긋나지 않는다.</p><p>스프레드시트는 엑셀처럼 칸에 숫자를 넣고 계산하는 문서다. 페이지 본문에 표를 넣는 일과 전용 계산 문서를 함께 편집하는 일은 다르다. 공식 발표에서 “문서·표·발표 자료”가 한꺼번에 보이더라도 실제 출시 시점을 확인할 필요가 있다.</p></section><section><h2>공유 범위와 반복 갱신은 따로 정한다</h2><p>페이지를 공유해도 개인 채팅이나 개인 기억 전체가 동료에게 열리지는 않는다. 다만 내가 쓰거나 AI가 페이지에 옮긴 내용은 그 페이지를 보는 사람에게 보인다. 개인 메모에서 가져온 정보가 들어갔다면 공유 전에 내용을 확인해야 한다.</p><p>개인용 지원 요금제에서는 공유 메뉴에서 이메일로 사람을 초대하고 보기 또는 편집 권한을 정한다. 회사용 계정에서는 조직의 공유 규칙과 관리자 설정도 적용된다. 단순 검토를 부탁하는 사람에게는 보기 권한을 주는 식으로 필요한 범위를 고를 수 있다.</p><p>페이지를 계속 최신 상태로 유지하려면 무엇을 언제 바꿀지 요청해야 한다. 반복 갱신은 확인할 자료와 주기를 정한 자동 작업으로 설정한다. 예를 들어 매주 금요일에 업무 목록을 읽고 완료된 항목을 요약하도록 정하는 식이다. 이 예시는 자동 작업을 설명하기 위한 것이다.</p><p>바뀐 문서는 다시 읽어 봐야 한다. 일정 변경이 있었다면 날짜만 바뀌고 안내 문구는 옛날 내용으로 남을 수 있다. 담당자가 최종 내용을 확인하는 절차를 두면 AI의 정리와 사람의 결정을 함께 활용할 수 있다.</p><p>스페이스의 핵심은 문서를 하나 더 보관하는 데 그치지 않는다. AI가 만든 초안을 사람에게 넘기고 끝내는 대신, 사람과 AI가 같은 문서를 보며 계속 고치는 작업 공간이다.</p></section><section class="sep26-sources"><h2>출처와 더 읽을 자료</h2><ul><li><a href="https://chatgpt.com/features/space/" target="_blank" rel="noopener noreferrer">오픈AI — Space 기능과 이용 조건</a></li><li><a href="https://chatgpt.com/work/" target="_blank" rel="noopener noreferrer">오픈AI — ChatGPT Work 소개</a></li><li><a href="https://chatgpt.com/features/plugins/" target="_blank" rel="noopener noreferrer">오픈AI — 외부 도구 연결과 권한</a></li><li><a href="https://openai.com/index/devday-2026-recap/" target="_blank" rel="noopener noreferrer">오픈AI — DevDay 2026 발표 모음</a></li></ul><p id="hero-credit">대표 그림은 AI로 만든 설명용 이미지다. 실제 제품 화면이나 사건 현장을 촬영한 사진이 아니다. 한국어 제목은 그림과 분리해 배치했고, 본문 도표는 자료를 바탕으로 직접 구성했다.</p></section><nav class="sep26-related" aria-label="기사 이동"><a href="openai-gpt-61-sol-launch.html">함께 읽기: GPT-6.1 Sol 출시…챗GPT Pro 사용량 너프, 월 500달러 요금제 추가 →</a></nav></article></main></body></html>

diff --git a/posts/chatgpt-pro-usage-cut-sol-61.html b/posts/chatgpt-pro-usage-cut-sol-61.html
@@ -1,0 +1,1 @@
+<!doctype html><html lang="ko"><head><meta charset="utf-8"><meta name="viewport" content="width=device-width,initial-scale=1"><link rel="icon" href="data:,"><title>챗GPT Pro 사용량 너프…월 200달러 그대로, 500달러 요금제 추가</title><meta name="description" content="같은 월 200달러를 내도 기본으로 쓸 수 있는 AI 사용량이 줄어든다. 새 월 500달러 요금제는 더 많은 사용량과 아스트라 초고속 모드를 제공한다."><link rel="canonical" href="https://korea333333-web.github.io/posts/chatgpt-pro-usage-cut-sol-61.html"><meta property="og:title" content="챗GPT Pro 사용량 너프…월 200달러 그대로, 500달러 요금제 추가"><meta property="og:type" content="article"><meta property="og:image" content="https://korea333333-web.github.io/assets/chatgpt-pro-usage-cut-sol-61-cover.png"><link rel="stylesheet" href="../assets/sep26-base.css"><link rel="stylesheet" href="../assets/sep03-article.css"><link rel="stylesheet" href="../assets/sep26-articles.css"><link rel="stylesheet" href="../assets/oct01-six.css"><link rel="stylesheet" href="../assets/oct01-pro.css"></head><body><header class="site-header"><a class="brand" href="../index.html#ai-news"><span class="brand-mark">AI</span><span>AI 인사이트 브리프</span></a><nav class="nav"><a href="https://korea333333-web.github.io/#ai-news">공개 블로그</a></nav></header><main class="article-shell"><article class="article article-custom sep26-article six-article pro-article"><a class="back-link" href="../index.html#ai-news">← 기사 미리보기</a><div class="article-meta">AI 요금제 · 이용 조건 · 2026.10.01 작성</div><h1>챗GPT Pro 사용량 너프…월 200달러 그대로, 500달러 요금제 추가</h1><p class="lead">오픈AI가 월 200달러 챗GPT Pro의 기본 사용량을 줄이고, 월 500달러 상위 요금제를 추가했다. 같은 돈으로 쓸 수 있는 양이 줄어드는 ‘너프’다. 유예 조건을 충족하고 구독을 유지하는 기존 가입자는 2026년 10월 29일까지 이전 한도를 쓸 수 있다. 그 뒤에는 줄어든 한도가 적용된다.</p><figure class="sep26-hero article-hero-media" id="hero-chatgpt-pro-usage-cut-sol-61" aria-describedby="hero-credit"><img src="../assets/chatgpt-pro-usage-cut-sol-61.png" width="1774" height="887" alt="작은 로봇이 적게 남은 작업 카드와 더 높은 선반의 카드 더미를 바라보는 설명 그림. 챗GPT Pro 너프, 월 500달러 신설"><div class="cover-copy" aria-hidden="true"><span class="cover-title">챗GPT Pro 너프<em>월 500달러 신설</em></span></div></figure><section><h2>같은 돈을 내는데 쓸 수 있는 양이 줄어든다</h2><p>여기서 너프는 기존에 받던 혜택을 줄인다는 뜻이다. 이번에 줄어드는 것은 Pro에 기본으로 포함된 AI 사용량이다. <a href="https://help.openai.com/en/articles/9793128-about-chatgpt-pro-tiers" target="_blank" rel="noopener noreferrer">공식 Pro 안내</a>는 새 Pro 200 가입자의 사용량을 이전보다 줄였고, 기존 가입자도 유예 기간 뒤 새 한도로 옮긴다고 명시했다.</p><p>예를 들어 매주 AI로 자료를 조사하고 글을 쓰면서 기존 한도를 거의 다 쓰던 사람이 있다. 한도가 줄면 작업 도중에 더 일찍 막힐 수 있다. 같은 돈을 내면서 하던 일을 줄이거나, 기다리거나, 추가로 결제해야 하는 상황이 생기는 것이다.</p><p>오픈AI는 모델의 효율이 높아졌다는 점을 변경 이유로 들었다. 그러나 이용자에게 중요한 것은 한 달 동안 실제로 얼마나 쓸 수 있느냐다. 성능이 좋아진 점과 구독 혜택을 줄인 결정은 따로 봐야 한다.</p><p>10월 1일 확인한 공개 안내에는 정확한 감소 폭이 없다. 개인별 변경 내용은 대상자에게 이메일로 안내한다고 밝혔다.</p></section><figure class="sep26-visual compare" id="pro-plan-prices"><div class="visual-inner"><h3>현재 Pro는 세 가지 요금으로 나뉜다</h3><div class="visual-items "><div class="visual-item"><strong>Pro 100</strong><p>월 100달러 · Pro 200보다 적은 기본 사용량</p></div><div class="visual-item"><strong>Pro 200</strong><p>월 200달러 · 이전보다 줄어든 기본 사용량</p></div><div class="visual-item"><strong>Pro 500</strong><p>월 500달러 · 가장 많은 기본 사용량과 아스트라 초고속 모드</p></div></div></div><figcaption><a href="https://help.openai.com/en/articles/9793128-about-chatgpt-pro-tiers" target="_blank" rel="noopener noreferrer">자료 원문</a> · 2026년 10월 1일 공식 안내의 미국 달러 월 요금. Pro 200의 유예 대상자는 10월 29일까지 이전 한도를 유지한다. 편집부 재구성.</figcaption></figure><section><h2>500달러를 내면 무엇이 추가되나</h2><p><a href="https://help.openai.com/en/articles/6825453-chatgpt-release-notes" target="_blank" rel="noopener noreferrer">9월 29일 변경 기록</a>에 따르면 Pro 500은 세 Pro 요금제 중 기본 사용량이 가장 많다. 아스트라가 답변을 더 빠르게 만드는 초고속 모드도 제공한다. 이 기능의 이름은 Ultrafast다. 처음에는 챗GPT 웹에서 가입할 수 있도록 안내했다.</p><p>200달러에서 500달러로 바꾸면 매달 300달러를 더 내며, 구독료는 2.5배가 된다. 한국 원화 청구액은 실제 결제 화면에서 확인해야 한다. 이 글의 금액은 미국 달러 기준이다.</p><p>다만 Pro 500의 사용량이 Pro 200의 정확히 몇 배인지는 공개 안내에 없다. 2.5배는 구독료 차이다. 사용할 수 있는 양까지 2.5배라고 계산할 수는 없다.</p><p>Pro 100·200에서 추가 사용량을 구매해도 출시 당시에는 Ultrafast를 쓸 수 없다. 이 초고속 모드를 원하면 Pro 500이 필요하다. 사용량을 더 사는 것과 상위 요금제로 바꾸는 것은 제공 기능부터 다르다.</p></section><section><h2>빠르게 끝내는 모드에는 사용량도 더 든다</h2><p><a href="https://learn.chatgpt.com/docs/agent-configuration/speed" target="_blank" rel="noopener noreferrer">공식 속도 안내</a>에서 Astra Ultrafast는 Work·Codex의 빠른 답변 생성 옵션이다. 같은 아스트라의 표준 모드와 비교하면, 구독에 포함된 사용량은 8배 비율로 차감한다. 별도로 구매한 크레딧은 6배 비율로 계산한다. 크레딧은 기본 한도를 다 쓴 뒤 추가 작업에 쓰는 유료 이용량이다.</p><p>예를 들어 표준 모드에서 사용량 1을 쓰는 만큼의 처리를 하면, Ultrafast에서는 8을 차감하는 식이다. 이는 속도 모드에 따른 차감 비율이다. 이번 Pro 기본 한도가 얼마나 줄었는지를 나타내는 숫자는 별도로 공개되지 않았다.</p><p>오픈AI가 말하는 최대 8배 속도는 AI가 답변을 만드는 속도다. 파일을 내려받거나 도구가 실행되는 시간은 따로 걸린다. 마감이 급할 때는 도움이 될 수 있지만, 반복해서 쓰면 한도도 더 빨리 소진한다.</p></section><section><h2>그럼 GPT-6.1 Sol을 주로 써도 될까</h2><p><a href="https://openai.com/index/introducing-gpt-6-1-sol/" target="_blank" rel="noopener noreferrer">오픈AI의 성능 시험</a>을 보면, 문서와 코딩 작업에서 먼저 시도할 만하다. 실제 프로그램을 고치는 DeepSWE v1.1 평가에서 Sol 6.1은 아스트라와 같은 수준에 도달했다. 회사가 발표한 시험 결과이며, 모든 업무에서 성능이 같다는 검증은 아직 없다.</p><p>표·그림이 섞인 PDF를 읽는 평가에서도 아스트라에 가까운 성과를 냈다고 밝혔다. 기존 GPT-6 Sol보다 여러 업무 단계를 이어 수행하는 점수는 4.8%포인트 올랐다. 예를 들어 60점에서 64.8점이 되면 4.8%포인트 상승이다. 이 숫자 예시는 단위를 설명하기 위한 것이다.</p></section><section><h2>내 작업에서는 같은 요청으로 비교하면 된다</h2><p>블로그 운영이라면 기사 초안, 제목 수정, 홈페이지의 작은 오류 고치기부터 Sol 6.1에 맡겨 볼 수 있다. 같은 자료와 지시를 아스트라에도 주고, 틀린 숫자나 빠진 조건, 다시 고친 횟수를 비교하는 방법이다. 이 순서는 편집부의 활용 제안이다.</p><p>예를 들어 “이 세 자료에서 발표 날짜·가격·한국 이용 가능 여부를 뽑고 근거 링크를 붙여줘”라고 두 모델에 똑같이 요청한다. Sol이 한 번에 정확히 끝낸다면 그 종류의 작업은 Sol에 맡길 수 있다. 자료를 여러 번 잘못 연결하거나 중요한 조건을 빠뜨리면 아스트라로 다시 검토한다.</p><p>짧은 답이 빨리 나오는지만 보면 실제 수고를 놓치기 쉽다. 처음 답변은 빨라도 사람이 세 번 다시 고쳐야 하면 끝나는 시간은 더 길어진다. 마지막 결과까지 걸린 시간과 수정 횟수를 함께 보면 나에게 맞는 모델이 드러난다.</p><p>어려운 과학 연구처럼 최고 수준의 추론이 필요한 일은 아스트라를 남겨 둘 이유가 있다. 일상적인 초안과 반복 수정은 Sol에, 계속 막히는 문제는 아스트라에 맡기는 방식으로 나눠 볼 수 있다. 실제 한국어 글쓰기 품질은 내 자료와 문체 기준으로 확인해야 한다.</p></section><figure class="sep26-visual compare" id="sol-performance"><div class="visual-inner"><h3>Sol 6.1, 어디까지 아스트라에 가까워졌나</h3><div class="visual-items "><div class="visual-item"><strong>프로그램 수정</strong><p>DeepSWE v1.1에서 아스트라와 같은 수준</p></div><div class="visual-item"><strong>복잡한 PDF 읽기</strong><p>GDP.pdf에서 아스트라 성능에 근접</p></div><div class="visual-item"><strong>어려운 과학 연구</strong><p>Terminal-Bench Science에서는 아스트라가 최고 점수</p></div></div></div><figcaption><a href="https://openai.com/index/introducing-gpt-6-1-sol/" target="_blank" rel="noopener noreferrer">자료 원문</a> · 오픈AI가 발표한 평가 결과 요약. 시험마다 모델 설정과 작업 조건이 다르다. 편집부 재구성.</figcaption></figure><section><h2>“가격이 5분의 1”과 “다섯 배 더 사용”은 다르다</h2><p>Sol 6.1의 표준 API 입력·출력 단가는 아스트라의 5분의 1이다. 여기서 API는 개발자가 자기 프로그램에서 AI를 불러 쓰는 통로다. <a href="https://openai.com/index/introducing-gpt-6-1-sol/" target="_blank" rel="noopener noreferrer">모델 발표문</a>의 이 가격은 챗GPT 월 구독료와 따로 계산한다.</p><p><a href="https://learn.chatgpt.com/docs/pricing" target="_blank" rel="noopener noreferrer">Work·Codex 요금 안내</a>는 실제 사용량이 모델, 자료 크기, 작업 복잡도, 도구 사용 등에 따라 달라진다고 설명한다. 그래서 Sol을 골랐을 때 구독 한도로 일을 정확히 몇 배 더 할 수 있는지는 API 가격만으로 계산할 수 없다.</p><p>작업을 바꿔 가며 남은 한도를 보면 차이를 파악하는 데 도움이 된다. 비교할 때는 새 대화에 같은 파일과 같은 지시를 넣고, 가능한 한 같은 설정을 사용한다. 아주 짧은 작업 한 번의 차이보다는 평소 하던 작업 여러 건을 끝냈을 때의 결과를 보는 편이 낫다.</p></section><section><h2>모델을 바꾸면 한도가 새로 생기나</h2><p><a href="https://help.openai.com/en/articles/20001354-gpt-56-and-gpt-6-pro-in-chatgpt" target="_blank" rel="noopener noreferrer">공식 모델 안내</a>에 따르면 일반 Chat의 GPT-6 Pro 한도와 Work·Codex의 한도는 별개다. Work는 문서나 파일을 만드는 업무 기능이고, Codex는 프로그램을 만들고 고치는 도구다. Work와 Codex끼리는 사용량을 공유한다.</p><p>Work·Codex에서 Sol로 바꾸면 다른 모델로 작업하게 된다. 같은 사용량 통장에서 모델을 바꿔 쓰는 방식이므로, 이미 소진한 공동 한도가 다시 채워지지는 않는다. 한도가 남아 있을 때 어떤 모델에 어떤 일을 맡길지 나누는 것이 핵심이다.</p><p>Sol 6.1은 출시 안내 기준 Work·Codex에서 제공하며 일반 Chat에는 아직 제공하지 않는다. 계정별 적용은 순차적으로 진행된다. 일반 채팅의 Pro 한도를 다 썼다고 그 자리에 Sol 6.1이 바로 나타난다고 기대하면 혼동할 수 있다.</p></section><section><h2>Sol이 좋아졌어도 Pro 사용량 너프는 남는다</h2><p>Sol 6.1은 문서·코딩 작업의 현실적인 대안 후보가 됐다. 같은 일을 정확하게 끝낸다면 아스트라에 모든 작업을 맡길 필요가 줄어든다. 그 점은 직접 시험해 볼 가치가 있다.</p><p>기존 Pro 200의 기본 사용량을 줄인 결정은 이용자에게 불리하다. 200달러를 내며 하던 일을 계속하려는 사람에게는 새 한도가 충분한지가 중요하다. 새 한도가 부족한 사람은 작업량을 줄이거나 추가 비용을 부담해야 한다.</p></section><section class="sep26-sources"><h2>출처와 더 읽을 자료</h2><ul><li><a href="https://help.openai.com/en/articles/9793128-about-chatgpt-pro-tiers" target="_blank" rel="noopener noreferrer">오픈AI 도움말 — 새 Pro 요금제와 기존 가입자 변경 조건</a></li><li><a href="https://help.openai.com/en/articles/6825453-chatgpt-release-notes" target="_blank" rel="noopener noreferrer">오픈AI — 9월 29일 요금제·모델 변경 기록</a></li><li><a href="https://learn.chatgpt.com/docs/pricing" target="_blank" rel="noopener noreferrer">ChatGPT Learn — Work·Codex 요금과 사용량 계산</a></li><li><a href="https://learn.chatgpt.com/docs/agent-configuration/speed" target="_blank" rel="noopener noreferrer">ChatGPT Learn — Fast·Ultrafast 속도와 사용량</a></li><li><a href="https://openai.com/index/introducing-gpt-6-1-sol/" target="_blank" rel="noopener noreferrer">오픈AI — GPT-6.1 Sol 성능 시험과 출시 범위</a></li><li><a href="https://help.openai.com/en/articles/20001354-gpt-56-and-gpt-6-pro-in-chatgpt" target="_blank" rel="noopener noreferrer">오픈AI 도움말 — 일반 Chat과 Work·Codex의 모델·한도 구분</a></li></ul><p id="hero-credit">대표 그림은 AI로 만든 설명용 이미지이며, 한국어 제목은 별도로 배치했다. 카드 더미의 높이는 실제 사용량 비율을 나타내지 않는다. 본문 비교 자료는 공식 문서를 바탕으로 직접 구성했다. 확인 기준: 2026년 10월 1일.</p></section><nav class="sep26-related"><a href="https://korea333333-web.github.io/posts/openai-gpt-61-sol-launch.html">함께 읽기: GPT-6.1 Sol 출시와 달라진 점 →</a></nav></article></main></body></html>

diff --git a/index.html b/index.html
@@ -59,7 +59,9 @@
           <h2 id="ai-news-title">AI 뉴스</h2>
         </div>
         <div class="post-list">
-<article class="post-card featured-post post-card-image" id="post-openai-gpt-61-sol-launch"><img src="assets/openai-gpt-61-sol-launch-cover.png" width="832" height="417" alt="서류와 컴퓨터로 일하는 작은 로봇. 오픈AI, GPT-6.1 Sol 출시"><div class="post-card-body"><div class="post-meta"><span>2026.10.01</span><span>AI 모델 출시</span></div><h3><a href="posts/openai-gpt-61-sol-launch.html">오픈AI, GPT-6.1 Sol 출시…문서·코딩 실력 높이고 가격은 유지</a></h3><p>오픈AI가 GPT-6.1 Sol을 내놨습니다. 문서와 코딩 작업을 개선하고, 개발자가 쓰는 표준 API 요금은 기존 Sol과 같게 유지했습니다.</p></div></article>
+<article class="post-card featured-post post-card-image" id="post-chatgpt-pro-usage-cut-sol-61"><img src="assets/chatgpt-pro-usage-cut-sol-61-cover.png" width="832" height="417" alt="작은 로봇이 적게 남은 작업 카드와 더 높은 선반의 카드 더미를 바라보는 설명 그림. 챗GPT Pro 너프, 월 500달러 신설"><div class="post-card-body"><div class="post-meta"><span>2026.10.01</span><span>AI 요금제 · 이용 조건</span></div><h3><a href="posts/chatgpt-pro-usage-cut-sol-61.html">챗GPT Pro 사용량 너프…월 200달러 그대로, 500달러 요금제 추가</a></h3><p>같은 월 200달러를 내도 기본으로 쓸 수 있는 AI 사용량이 줄어든다. 새 월 500달러 요금제는 더 많은 사용량과 아스트라 초고속 모드를 제공한다.</p></div></article>
+
+<article class="post-card featured-post post-card-image" id="post-openai-gpt-61-sol-launch"><img src="assets/openai-gpt-61-sol-launch-cover.png" width="832" height="417" alt="서류와 컴퓨터로 일하는 작은 로봇. GPT-6.1 Sol 출시, Pro 사용량 너프"><div class="post-card-body"><div class="post-meta"><span>2026.10.01</span><span>AI 모델 · 요금제 변경</span></div><h3><a href="posts/openai-gpt-61-sol-launch.html">GPT-6.1 Sol 출시…챗GPT Pro 사용량 너프, 월 500달러 요금제 추가</a></h3><p>오픈AI가 Sol 6.1의 문서·코딩 성능을 높였다고 밝혔다. 하지만 월 200달러 Pro의 기본 사용량은 줄었고, 더 많이 쓰는 상위 요금제는 월 500달러다.</p></div></article>
 <article class="post-card featured-post post-card-image" id="post-openai-dots-ai-assistant"><img src="assets/openai-dots-ai-assistant-cover.png" width="832" height="417" alt="책상에서 여러 할 일을 정리하는 작은 로봇 비서. 오픈AI, AI 비서 도트 공개"><div class="post-card-body"><div class="post-meta"><span>2026.10.01</span><span>AI 비서</span></div><h3><a href="posts/openai-dots-ai-assistant.html">오픈AI, 대화가 끝나도 일하는 AI 비서 ‘도트’ 공개</a></h3><p>연결을 허용한 메일과 앱에서 일을 이어 하는 AI 비서입니다. 자료 조사와 메시지 전송에 적용되는 권한은 다릅니다.</p></div></article>
 <article class="post-card featured-post post-card-image" id="post-meta-muse-small-business"><img src="assets/meta-muse-small-business-cover.png" width="832" height="417" alt="가게 주인과 함께 매장 업무를 살펴보는 로봇. 메타 뮤즈, 가게 운영도 돕는다"><div class="post-card-body"><div class="post-meta"><span>2026.10.01</span><span>가게 운영과 AI</span></div><h3><a href="posts/meta-muse-small-business.html">메타 뮤즈, 매출 분석부터 광고 초안까지…가게 운영도 돕는다</a></h3><p>가게의 매출·광고·회계 자료를 연결해 AI에게 일을 맡기는 기능입니다. 메타가 발표한 제공 지역은 미국과 캐나다입니다.</p></div></article>
 <article class="post-card featured-post post-card-image" id="post-meta-muse-marketplace-address"><img src="assets/meta-muse-marketplace-address-cover.png" width="832" height="417" alt="중고 물품이 놓인 집 문 앞에서 사람을 맞이하는 로봇. 메타 뮤즈, 집 주소 공유 논란"><div class="post-card-body"><div class="post-meta"><span>2026.10.01</span><span>AI 이용자 사례</span></div><h3><a href="posts/meta-muse-marketplace-address.html">“뮤즈에 중고거래 맡겼더니 구매자가 집으로”…주소 공유 논란</a></h3><p>이용자는 뮤즈가 집 주소와 거래 가격을 전달했다고 밝혔습니다. 후속 글에서는 구매자와 화해했다고 설명했습니다.</p></div></article>

diff --git a/assets/oct01-pro.css b/assets/oct01-pro.css
@@ -1,0 +1,3 @@
+.pro-article .sep26-hero .cover-title,.oct01-index .sep26-card .cover-title{font-size:clamp(18px,5cqw,42px);line-height:1.46}
+.pro-article .sep26-visual h3{max-width:100%}
+.pro-article .lead{word-break:keep-all;overflow-wrap:break-word}
